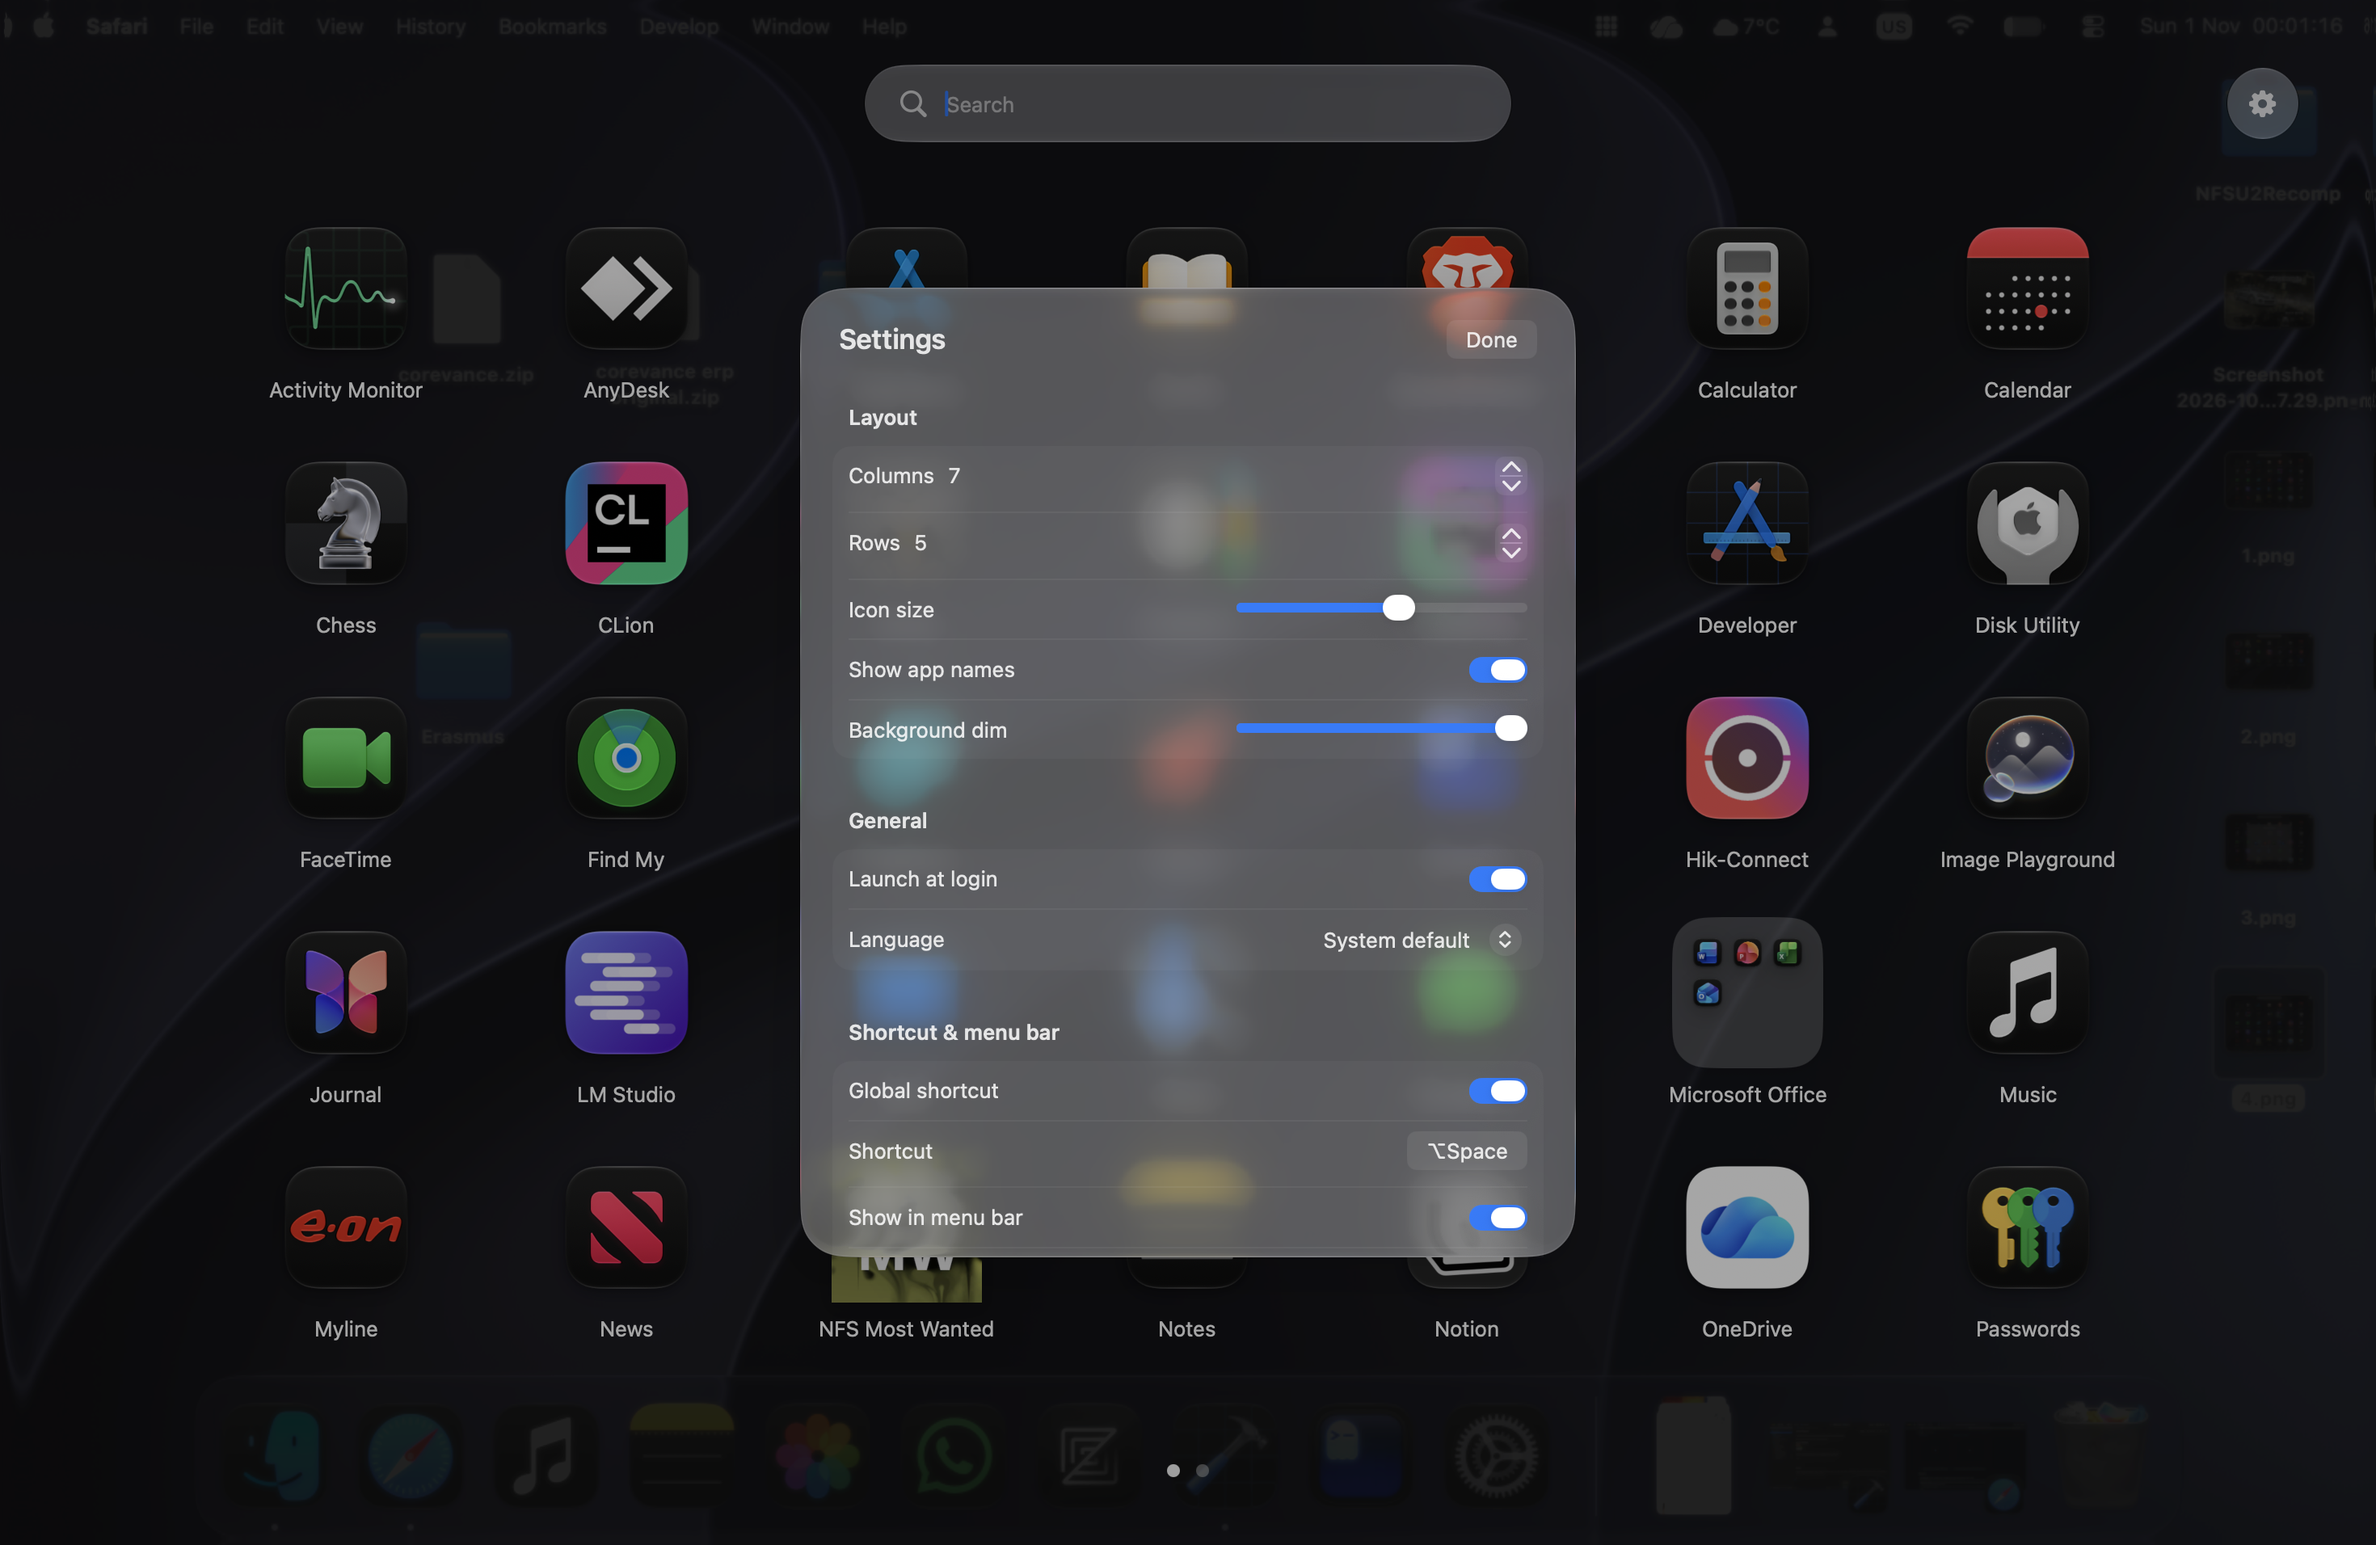
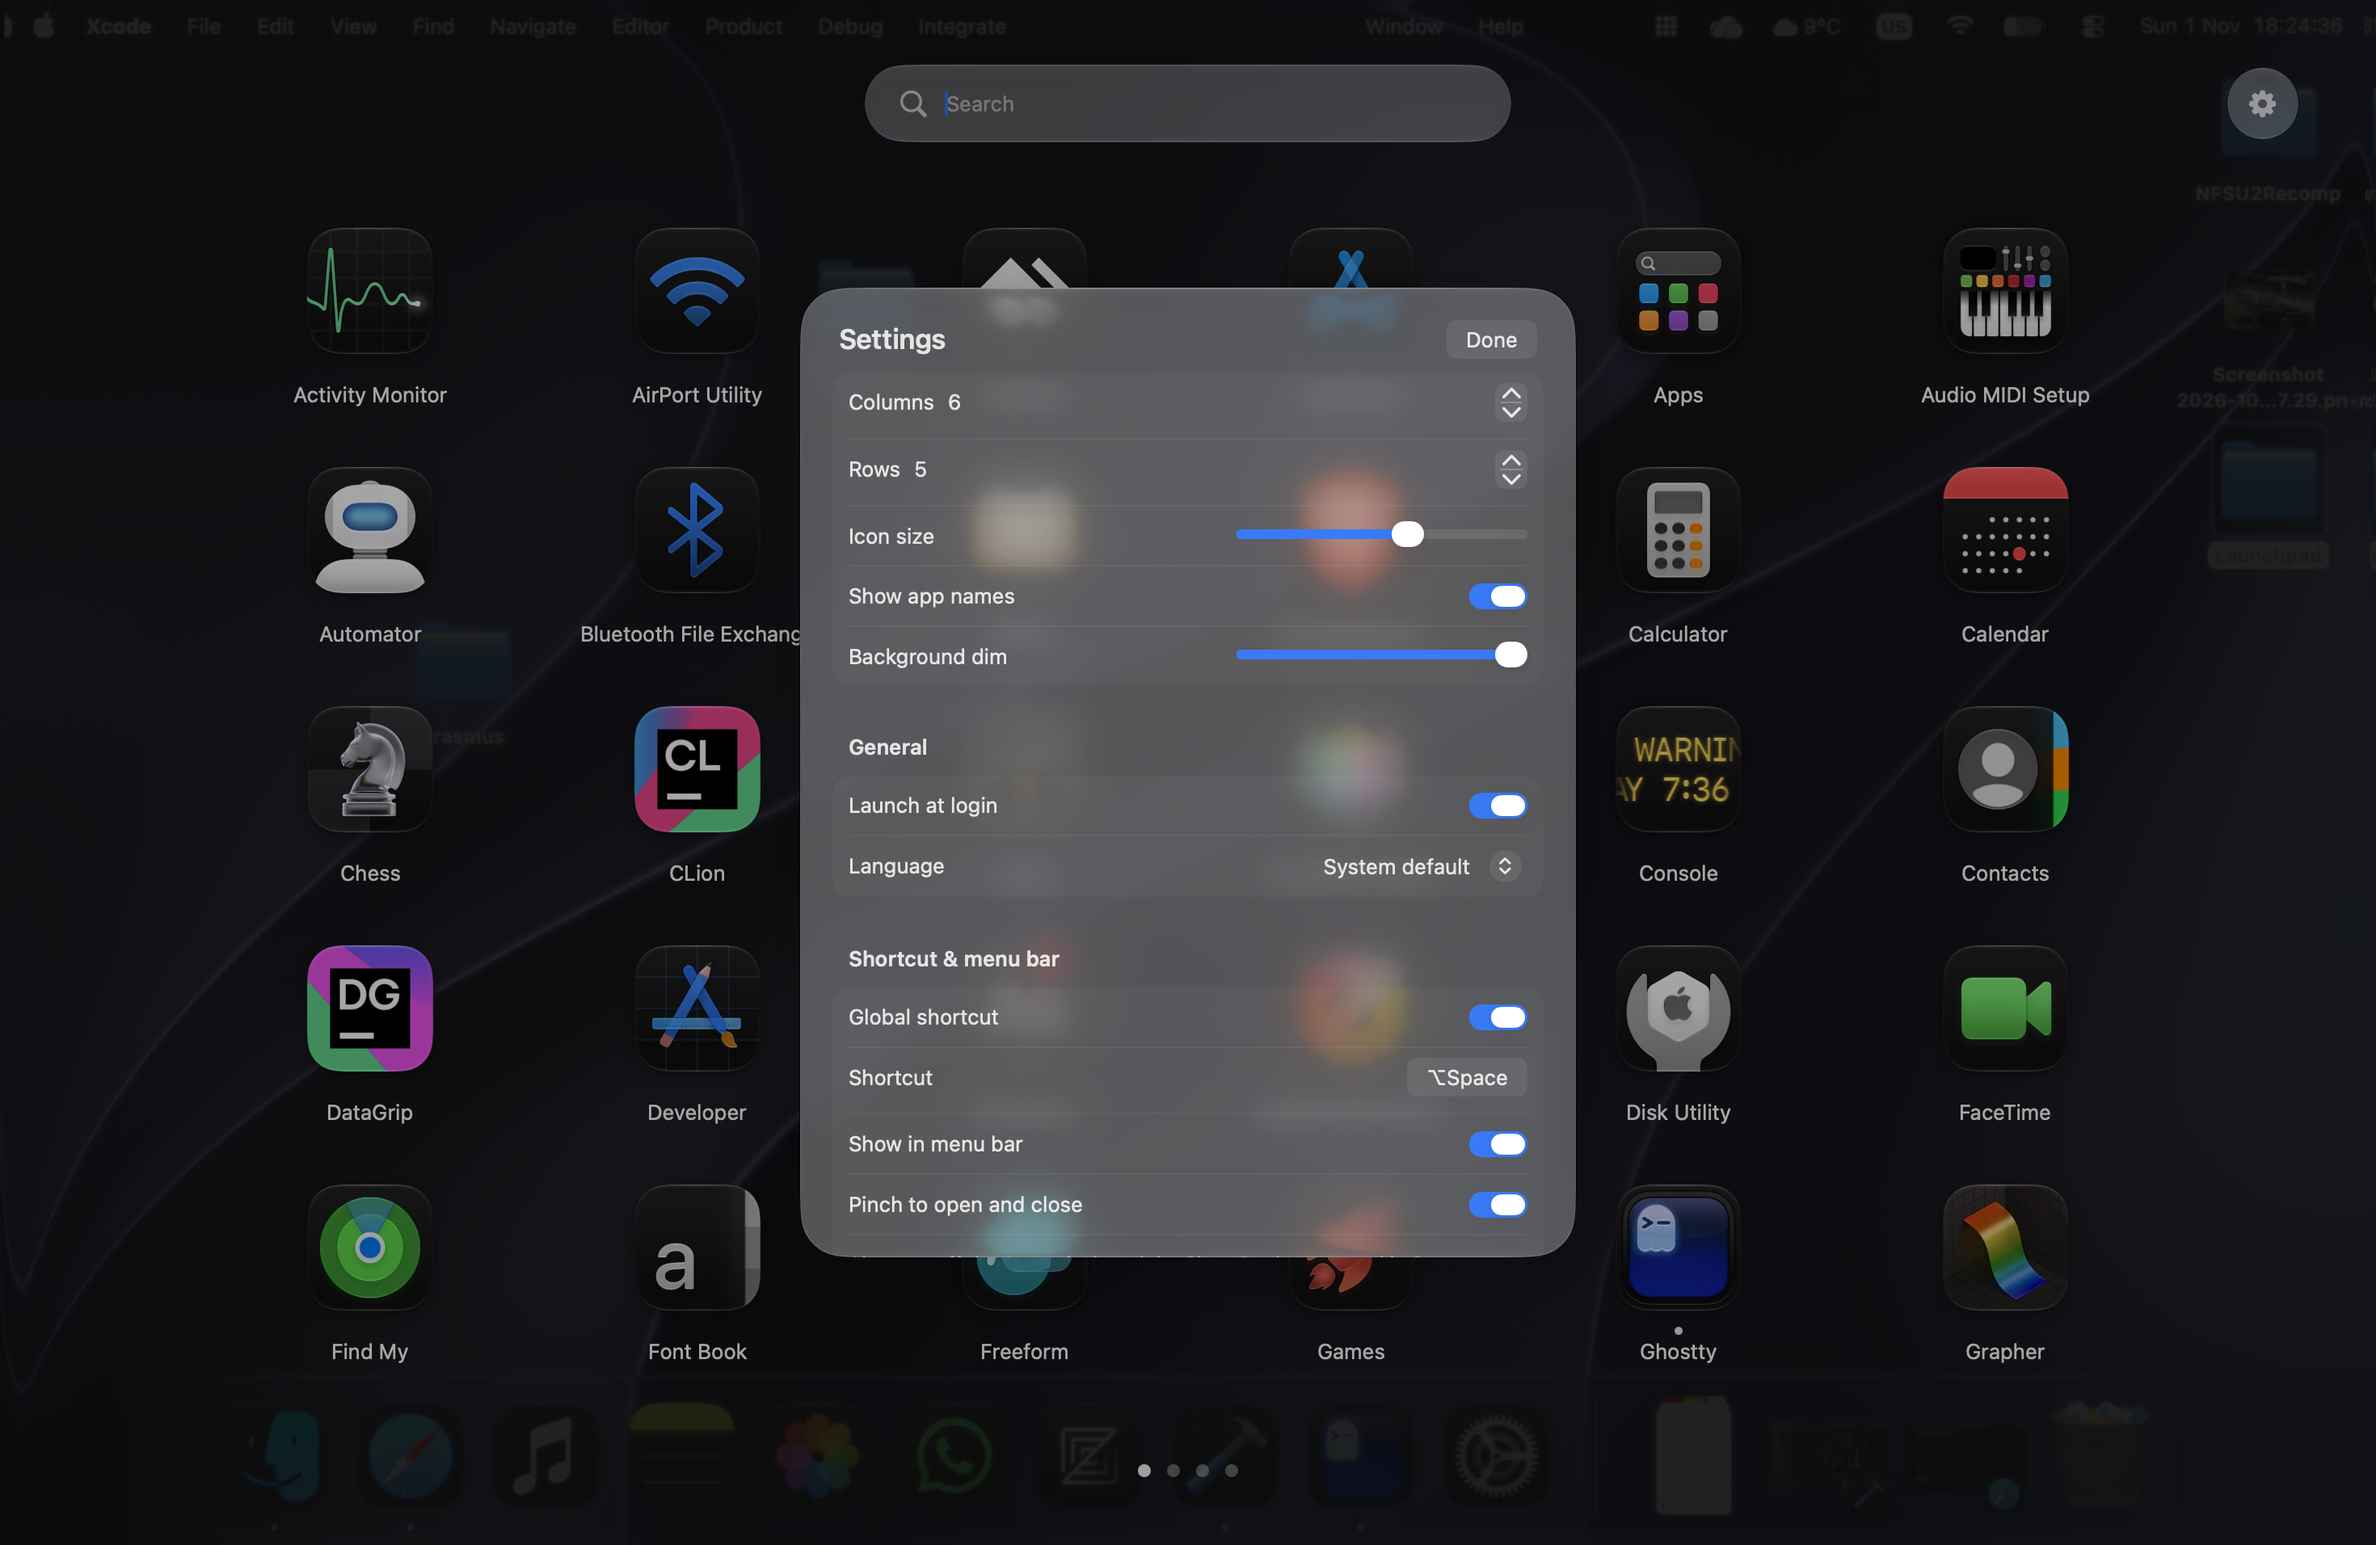
Fixed README.md and updated a screenshot.

diff --git a/README.md b/README.md
@@ -51,10 +51,10 @@ Apple removed Launchpad from recent versions of macOS in favor of the Apps view 
 - ✋ **Drag & drop**: reorder freely, hold a dragged app at the screen edge to flip pages
 - 🙈 **Hide apps**: right-click → *Hide from Launchpad*, restore any time in Settings
 - ⌨ **Global shortcut**: open and close Launchpad from anywhere (<kbd>⌥</kbd><kbd>Space</kbd> by default, fully customizable)
-- 🤏 **Pinch to open**: open Launchpad with the thumb-and-three-fingers pinch instead of macOS's Apps view
+- 🤏 **Pinch to open/close**: open/close Launchpad with the thumb-and-three-fingers pinch instead of macOS's Apps or Show Desktop gestures
 - 👋 **First-run guide**: a short tutorial on the first launch that also helps you set your shortcut and pinch gesture
 - 🖥 **Menu bar icon**: optional, so you can see it's running and open or quit it from there
-- 🚀 **Launch at login**: starts silently in the background, ready for your shortcut
+- 🚀 **Launch at login**: starts at launch, ready to open anytime
 - ⚙ **Layout settings**: columns, rows, icon size, background dim, show or hide app names
 - 🌍 **Multilingual**: English, Română, Español, Français, Deutsch, Italiano, Nederlands, Português, 日本語, 简体中文, switchable in the app
 - 🖱 **Trackpad, Magic Mouse and wheel mouse**: swipe, scroll or click through pages
@@ -72,7 +72,7 @@ Apple removed Launchpad from recent versions of macOS in favor of the Apps view 
 
 Grab the latest build from the [Releases](https://github.com/drclcomputers/Launchpad/releases) page, unzip it, and drag **Launchpad.app** into your `/Applications` folder.
 
-> Builds are not signed or notarized (that needs a paid Apple Developer account), so macOS blocks the first launch. Right-click the app and choose **Open**, or run `xattr -cr /Applications/Launchpad.app` once.
+> Builds are not signed or notarized, so macOS blocks the first launch. Right-click the app and choose **Open**, or run `xattr -cr /Applications/Launchpad.app` once.
 
 ### Build from source
 
@@ -121,7 +121,7 @@ The first time you open Launchpad, a short guide walks you through the basics an
 Open Launchpad with the thumb-and-three-fingers pinch, the same gesture macOS uses for its own Apps view.
 
 1. Turn it on in the welcome guide, or later in **Settings → Shortcut & menu bar → Pinch to open**.
-2. Turn off the system pinch so macOS doesn't open its own Apps view as well. Click **Open Trackpad Settings** (in the guide or in Settings), then under *More Gestures* switch off the Launchpad/Apps pinch.
+2. Turn off the system pinch so macOS doesn't open its own Apps view or Shows the Desktop as well. Click **Open Trackpad Settings** (in the guide or in Settings), then under *More Gestures* switch off the Apps and Show Desktop pinch.
 3. Pinch with your thumb and three fingers on the trackpad.
 
 > Launchpad cannot intercept the system gesture, so it detects the pinch itself while you turn macOS's version off. The detection reads raw trackpad touches through a private macOS framework. That is why Launchpad is **not sandboxed**, and why it may stop working after a macOS update. It works with trackpads only (built-in or Magic Trackpad).
@@ -138,7 +138,7 @@ Open Launchpad with the thumb-and-three-fingers pinch, the same gesture macOS us
 | Language | System default, English, Română, Español, Français, Deutsch, Italiano, Nederlands, Português, 日本語, 简体中文 |
 | Global shortcut | Enable, disable and record the shortcut |
 | Show in menu bar | Show or hide the menu bar icon |
-| Pinch to open | Open Launchpad with the thumb-and-three-fingers pinch, with a button that opens Trackpad settings so you can turn off macOS's own pinch |
+| Pinch to open/close | Open/Close Launchpad with the thumb-and-three-fingers pinch, with a button that opens Trackpad settings so you can turn off macOS's own pinch |
 | Hidden apps | See and unhide apps you hid |
 | Reset layout | Remove all folders and custom ordering |
 | Clear launch history | Forget how often you launched each app (resets search ranking) |
@@ -160,7 +160,8 @@ Open Launchpad with the thumb-and-three-fingers pinch, the same gesture macOS us
 - **Get Info does nothing:** allow Launchpad to control Finder under *System Settings → Privacy & Security → Automation*.
 - **<kbd>,</kbd> and <kbd>.</kbd> don't flip pages:** they only work while the search field is empty and no folder is open, otherwise they are typed into the search.
 - **Pinch to open does nothing:** make sure the switch is on in Settings, that you are using a trackpad, and that the app is really unsandboxed (`codesign -d --entitlements - /Applications/Launchpad.app` should not list `app-sandbox`).
-- **Pinch to open also opens Apps:** turn off the Launchpad/Apps pinch in *System Settings → Trackpad → More Gestures*. The **Open Trackpad Settings** button takes you there.
+- **Pinch to open also opens Apps:** turn off the Apps pinch in *System Settings → Trackpad → More Gestures*. The **Open Trackpad Settings** button takes you there.
+- **Pinch to close also Shows the Desktop:** turn off the Show Desktop pinch in *System Settings → Trackpad → More Gestures*. The **Open Trackpad Settings** button takes you there.
 - **An app is missing:** it probably lives outside the folders listed above, or it is hidden (check *Hidden apps* in Settings).
 
 ## Project structure
